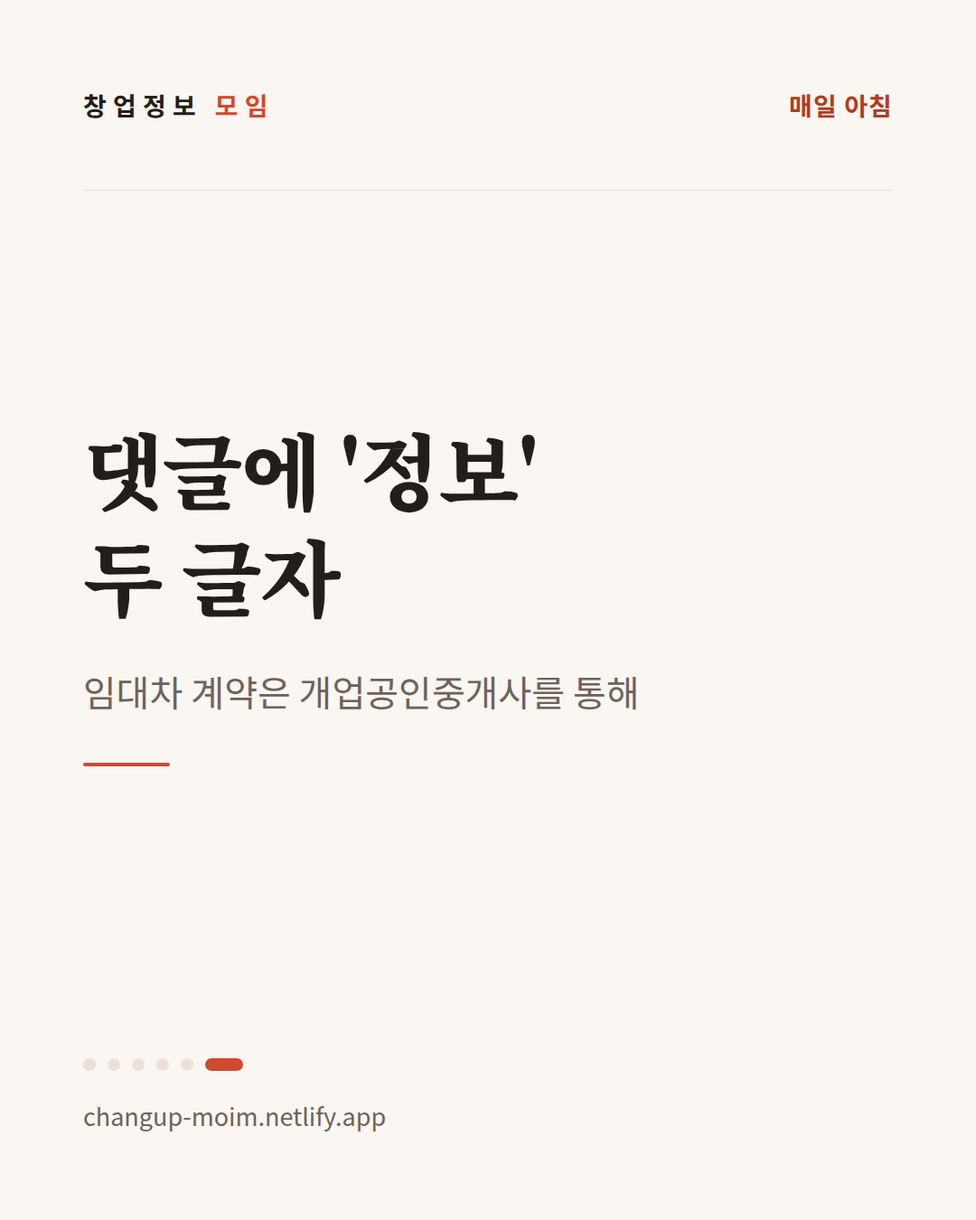
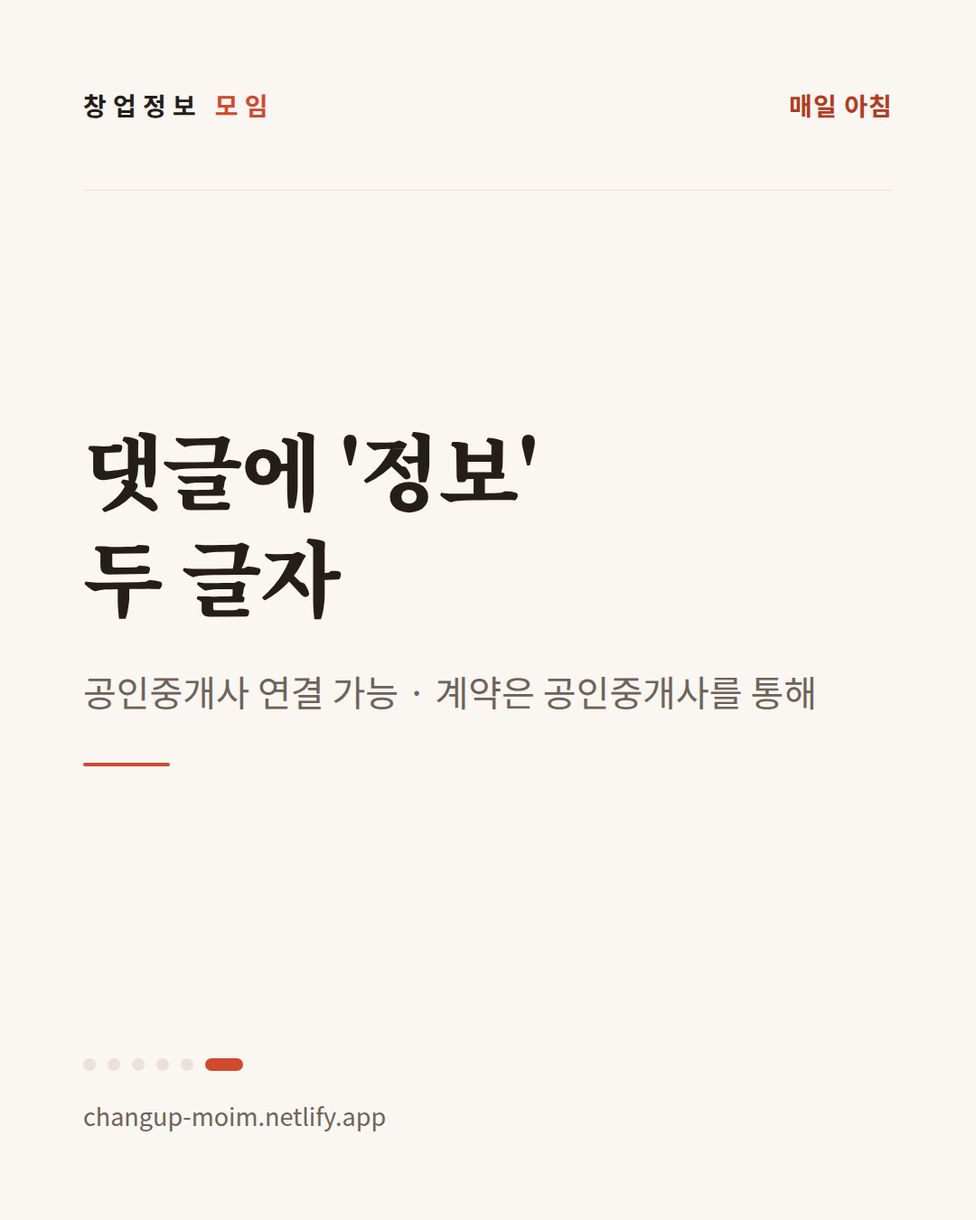
fix(changup-site): '개업공인중개사' → '공인중개사' 전면 교체 + 연결 가능 문구
- 사이트 전체(홈·FAQ·약관·개인정보·푸터·기사)·자동 기사 생성기·릴스 README 용어 통일
- 신뢰 배지 '공인중개사 협업' → '공인중개사 연결 가능'
- 4단계·왜무료 섹션에 "연결까지 도와드려요" 반영
- 무인매장 편 CTA 카드(muin_06) 재렌더 + 유니 음성 6번 재생성(연결 문구 포함)
- manifest 갱신 → 릴스 자동 재합성

Changed region(s): [[0.0917, 0.5289, 0.8556, 0.5911]]

diff --git a/apps/changup-site/app.html b/apps/changup-site/app.html
@@ -314,8 +314,8 @@ var ARTICLES=[
    ['장점: 인건비·운영시간의 부담이 줄어든다','무인매장의 가장 큰 장점은 <b>상주 인력이 필요 없다</b>는 점이다. 야간·심야까지 영업시간을 늘려도 인건비가 그대로이고, 본업과 병행하는 부업형 창업도 가능하다. 키오스크·무인결제 장비가 표준화되면서 초기 진입 장벽도 과거보다 낮아졌다. 다만 이는 \'관리가 필요 없다\'는 뜻이 아니라 <b>관리 방식이 달라진다</b>는 의미에 가깝다.'],
    ['숨은 비용: 임차료·기기·보안·손실은 그대로 남는다','인건비가 줄어도 <b>임차료·관리비·전기료</b>는 매달 나간다. 여기에 키오스크·냉동냉장 설비의 <b>렌털료 또는 감가</b>, CCTV·보안 비용, 무인 특성상 발생하는 <b>도난·파손 손실</b>과 정기 방문 청소·보충 시간까지 계산해야 한다. 이런 항목을 빼고 \'월 순수익\'을 말하는 홍보는 걸러서 볼 필요가 있다. 구체 비용은 업체·지역별로 달라 기관·계약서 확인이 필요하다.'],
    ['수익 구조: 객단가가 낮아 입지 의존도가 크다','무인 업종은 대체로 <b>객단가가 낮고 마진이 얇아</b>, 매출이 통행량과 배후세대에 크게 좌우된다. 계약 전에 <b>소상공인 상권정보시스템</b>으로 유동인구·경쟁점 밀도를 확인하고, 지방행정 인허가데이터로 주변 동일 업종의 <b>개·폐업 이력</b>을 살펴보면 자리의 위험도를 가늠할 수 있다. 같은 업종이 짧은 주기로 열고 닫힌 자리는 특히 주의한다.'],
-   ['인수라면: 장비 소유권과 계약 승계를 문서로 확인한다','운영 중인 무인매장을 인수할 때는 <b>키오스크·설비가 소유인지 렌털인지</b>, 렌털이면 잔여 약정과 위약금 승계 여부를 문서로 확인해야 한다. 프랜차이즈형이라면 정보공개서로 본사 조건을 검토하고, 임대차 계약은 <b>개업공인중개사를 통해</b> 진행한다. 매출 자료는 포스·정산 내역 원본으로 검증하는 것이 안전하다.']],
-  summary:['무인매장도 임차료·렌털·보안·손실 등 고정비가 계속 발생한다','객단가가 낮아 입지 의존도가 크다 — 상권 공공데이터로 먼저 검증한다','인수 시 장비 소유권·렌털 약정 승계를 반드시 문서로 확인한다','임대차 계약은 개업공인중개사를 통해 진행한다'],
+   ['인수라면: 장비 소유권과 계약 승계를 문서로 확인한다','운영 중인 무인매장을 인수할 때는 <b>키오스크·설비가 소유인지 렌털인지</b>, 렌털이면 잔여 약정과 위약금 승계 여부를 문서로 확인해야 한다. 프랜차이즈형이라면 정보공개서로 본사 조건을 검토하고, 임대차 계약은 <b>공인중개사를 통해</b> 진행한다. 매출 자료는 포스·정산 내역 원본으로 검증하는 것이 안전하다.']],
+  summary:['무인매장도 임차료·렌털·보안·손실 등 고정비가 계속 발생한다','객단가가 낮아 입지 의존도가 크다 — 상권 공공데이터로 먼저 검증한다','인수 시 장비 소유권·렌털 약정 승계를 반드시 문서로 확인한다','임대차 계약은 공인중개사를 통해 진행한다'],
   src:'근거: 소상공인 상권정보시스템, 지방행정 인허가데이터, 공정거래위원회 가맹사업 정보공개서 안내 등 공공자료. 개별 비용·수익은 업체·지역·계약 조건에 따라 다르며 특정 수익을 보장하지 않는다.'},
 
  {slug:'yangdo-segeum',cat:'권리금',date:'2026.07.20',
@@ -425,7 +425,7 @@ var ARTICLES=[
    ['권리금 회수기회 보호','임대차 종료 6개월 전부터 종료 시까지, 임대인이 정당한 사유 없이 신규 임차인과의 계약을 방해하면 <b>권리금 회수 방해</b>로 손해배상 책임을 질 수 있다. 이 조항의 존재를 알고 있어야 나중에 권리금을 지킬 수 있다.'],
    ['확정일자·전대 가능 여부','보증금 보호를 위해 <b>사업자등록과 확정일자</b>를 갖추고, 향후 양도·전대(재임대) 가능 여부를 계약서에 확인해 둔다. 나중에 매장을 넘길 때 임대인 동의 조건이 발목을 잡는 경우가 흔하다.']],
   summary:['환산보증금이 지역 기준 이하인지 확인해 보호 범위를 파악한다.','계약갱신요구권(최대 10년)과 잔여 기간으로 안정 영업 기간을 계산한다.','제소전화해·원상복구 범위 등 독소조항 문구를 명확히 한다.','권리금 회수기회 보호·확정일자·전대 가능 여부를 미리 챙긴다.'],
-  src:'근거: 상가건물 임대차보호법 및 국토교통부·법무부 상가임대차 표준계약서 안내. 개별 계약은 지역·조건에 따라 다르며, 실제 계약은 개업공인중개사·전문가 확인이 필요하다.'}
+  src:'근거: 상가건물 임대차보호법 및 국토교통부·법무부 상가임대차 표준계약서 안내. 개별 계약은 지역·조건에 따라 다르며, 실제 계약은 공인중개사·전문가 확인이 필요하다.'}
 ];
 
 // 기사별 공식 출처 링크 (공공기관)
@@ -473,7 +473,7 @@ function viewHome(){
   '<div class="metrics"><div class="metric"><div class="fig">5</div><div class="cap">공공데이터<br>기반 분석</div></div>'+
     '<div class="metric"><div class="fig">0</div><div class="cap">상담·매칭<br>비용 (원)</div></div>'+
     '<div class="metric"><div class="fig">1:1</div><div class="cap">전담 컨설턴트<br>동행</div></div></div>'+
-  '<div class="badges"><span>공공데이터 검증</span><span>개업공인중개사 협업</span><span>사업자 729-33-00827</span><span>개인정보 즉시 파기</span></div>'+
+  '<div class="badges"><span>공공데이터 검증</span><span>공인중개사 연결 가능</span><span>사업자 729-33-00827</span><span>개인정보 즉시 파기</span></div>'+
   '<section><span class="pill"><span class="dot"></span>30초 무료 진단</span>'+
     '<h2 style="margin-top:.7rem">내 가게 <span class="g">권리금 적정가</span>는 얼마?</h2>'+
     '<p class="lead" style="text-align:left;max-width:none;margin:.5rem 0 0">지금 넘기면 얼마나 회수할 수 있을까요? 업종·월 순이익·상권만 넣으면 참고 구간을 바로 알려드려요.</p>'+
@@ -493,14 +493,14 @@ function viewHome(){
     '<div class="step"><div class="sn">1</div><b>30초 설문</b><span>희망 조건만 남기면 끝. 가입·비용 없음.</span></div>'+
     '<div class="step"><div class="sn">2</div><b>조건 매칭</b><span>공공데이터로 검증된 매물만 골라 대조.</span></div>'+
     '<div class="step"><div class="sn">3</div><b>1:1 안내</b><span>맞는 매물이 생기면 가장 먼저 연락.</span></div>'+
-    '<div class="step"><div class="sn">4</div><b>안전 계약</b><span>실제 계약은 개업공인중개사를 통해.</span></div>'+
+    '<div class="step"><div class="sn">4</div><b>안전 계약</b><span>계약은 공인중개사를 통해 — 연결까지 도와드려요.</span></div>'+
     '</div></section>'+
   '<section><div class="sh"><h2>오늘의 <span class="g">창업 인사이트</span></h2><a class="more-lnk" data-go="info">전체 보기 →</a></div>'+
     '<div class="feed">'+latest+'</div>'+
     '<p style="text-align:center;color:var(--sub);font-size:.85rem;margin:1.1rem 0 0">계약 전에 알았다면 달랐을 이야기, <b style="color:var(--ink)">매일</b> 올라옵니다.</p></section>'+
   '<section><h2>왜 <span class="g">무료</span>인가요?</h2><div class="why">'+
     wrow('수수료는 계약 성사 시 매도인 측에서 발생합니다.','매수 고객님께는 비용이 없습니다.')+
-    wrow('계약은 개업공인중개사를 통해 진행합니다.','저희는 조건에 맞는 연결과 자문을 담당해요.')+
+    wrow('계약은 공인중개사를 통해 진행합니다.','필요하시면 공인중개사 연결까지 도와드려요.')+
     wrow('연락처는 매물 안내 목적에만 씁니다.','제3자 제공 없음, 강매 없음.')+'</div></section>'+
   '<section><h2>이번 주 <span class="g">연결 가능한</span> 매물</h2><div class="ledger">'+
     lr('마포권','카페 · 보증금 3,000 · 월 200')+lr('강남권','외식업 · 권리금 협의 가능')+lr('성동권','풀오토 · 위탁 운영 가능')+
@@ -520,7 +520,7 @@ function faq(q,a){return '<details><summary>'+q+'<span class="pm">+</span></summ
 function footer(){return '<footer>'+
   '<div class="flinks"><a data-go="terms">이용약관</a><a data-go="privacy">개인정보처리방침</a><a data-go="ads">광고등록안내</a></div>'+
   '<b>호스트헬퍼</b> · 대표 김태욱 · 사업자등록번호 729-33-00827<br>서울특별시 동대문구 전농로37길 68-4, 1층 101호(전농동)<br>문의: 김태욱 컨설턴트 010-9433-4557 · hosthelper01@gmail.com<br><br>'+
-  '본 정보는 공공데이터에 근거하며 특정 수익·승인을 보장하지 않습니다. 호스트헬퍼는 사업체(권리금) 양도·양수를 주 업무로 하며, 게재 매물은 「공인중개사법」상 중개대상물이 아닙니다. 임대차·양수도 계약은 개업공인중개사를 통해 진행됩니다.</footer>';}
+  '본 정보는 공공데이터에 근거하며 특정 수익·승인을 보장하지 않습니다. 호스트헬퍼는 사업체(권리금) 양도·양수를 주 업무로 하며, 게재 매물은 「공인중개사법」상 중개대상물이 아닙니다. 임대차·양수도 계약은 공인중개사를 통해 진행됩니다.</footer>';}
 
 var curCat='전체';
 function viewInfo(){
@@ -588,7 +588,7 @@ function viewTerms(){return '<section class="legal">'+
  '<h3>제6조 (이용자의 의무)</h3><p>이용자는 신청·문의 시 허위 정보를 기재하여서는 안 되며, 서비스의 정상적 운영을 방해하는 행위, 타인의 정보를 도용하는 행위, 회사의 지식재산권을 침해하는 행위를 하여서는 안 됩니다.</p>'+
  '<h3>제7조 (매물 정보 및 면책)</h3>'+
  '<div class="box">호스트헬퍼는 사업체(권리금) 양도·양수를 주 업무로 하는 회사로, 일반 부동산에서 취급하는 중개대상물을 다루지 않습니다. 따라서 서비스에 안내되는 사업체(매물)는 「공인중개사법」상 중개대상물이 아닙니다.</div>'+
- '<p>① 게재·안내되는 매물 정보는 실제 존재하는 사업체를 기준으로 작성됩니다. 다만 양도인의 보안 유지 요청(건물주·직원 관계, 매출 저하 우려 등)에 따라 정확한 위치·임대차 조건·매출·지출 내역은 공개 화면에 그대로 기재되지 않을 수 있습니다.<br>② 정확한 위치·운영상태 확인 및 현장답사를 원하는 이용자에게는 상담·방문을 통해 세부 내역을 상세히 안내합니다.<br>③ 회사는 프랜차이즈·제휴업체 등이 제공한 정보의 정확성·안정성을 보장하지 않으며, 실제 임대차·양수도 계약은 개업공인중개사 등 전문가를 통해 진행됩니다.<br>④ 본 서비스의 창업 정보 콘텐츠는 공공데이터 등에 근거한 일반적 참고 자료로, 특정 수익·대출 승인·계약 성사를 보장하지 않습니다.</p>'+
+ '<p>① 게재·안내되는 매물 정보는 실제 존재하는 사업체를 기준으로 작성됩니다. 다만 양도인의 보안 유지 요청(건물주·직원 관계, 매출 저하 우려 등)에 따라 정확한 위치·임대차 조건·매출·지출 내역은 공개 화면에 그대로 기재되지 않을 수 있습니다.<br>② 정확한 위치·운영상태 확인 및 현장답사를 원하는 이용자에게는 상담·방문을 통해 세부 내역을 상세히 안내합니다.<br>③ 회사는 프랜차이즈·제휴업체 등이 제공한 정보의 정확성·안정성을 보장하지 않으며, 실제 임대차·양수도 계약은 공인중개사 등 전문가를 통해 진행됩니다.<br>④ 본 서비스의 창업 정보 콘텐츠는 공공데이터 등에 근거한 일반적 참고 자료로, 특정 수익·대출 승인·계약 성사를 보장하지 않습니다.</p>'+
  '<h3>제8조 (수수료)</h3><p>매수(창업) 희망 이용자에 대한 상담·매칭에는 별도의 비용이 청구되지 않습니다. 중개(양도양수) 수수료는 계약이 성사된 경우 매도인(양도인) 측과의 약정에 따릅니다.</p>'+
  '<h3>제9조 (지식재산권)</h3><p>서비스 및 회사가 작성한 콘텐츠에 대한 저작권 등 지식재산권은 회사에 귀속하며, 이용자는 회사의 사전 승낙 없이 이를 영리 목적으로 복제·배포·전송할 수 없습니다.</p>'+
  '<h3>제10조 (준거법 및 관할)</h3><p>본 약관은 대한민국 법을 준거법으로 하며, 회사와 이용자 간 분쟁에 관한 소송은 민사소송법상 관할법원에 제기합니다.</p>'+
@@ -603,7 +603,7 @@ function viewPrivacy(){return '<section class="legal">'+
  '<tr><td>매물 상담 설문</td><td>성함, 휴대폰번호, 연락 방법, 희망 운영방식·업종·지역, 희망 예산(보증금·월세·권리금), 오프미팅 희망 일정, 문의 내용</td><td>조건에 맞는 매물 안내·매칭 상담, 방문(오프미팅) 일정 조율, 문의 응대</td><td>상담 종료 또는 동의 철회 시까지(관계 법령상 보존 필요 시 3년)</td></tr>'+
  '<tr><td>자동 수집</td><td>접속 IP, 서비스 이용 시각, 브라우저 정보(User Agent)</td><td>서비스 이용 통계·분석, 부정 이용 방지</td><td>수집일로부터 2년</td></tr></table></div>'+
  '<h3>2. 개인정보의 보유 및 파기</h3><p>보유기간의 경과, 처리목적 달성 등으로 개인정보가 불필요하게 된 때에는 지체 없이 파기합니다. 전자적 파일은 복원이 불가능한 방법으로 삭제하고, 출력물은 파쇄 또는 소각합니다. 관계 법령에 따라 보존이 필요한 경우 해당 기간 동안 별도 보관합니다.</p>'+
- '<h3>3. 개인정보의 제3자 제공</h3><p>회사는 정보주체의 동의 없이 개인정보를 외부에 제공하지 않습니다. 다만 매물 양수도 계약 진행을 위해 개업공인중개사 등에게 제공이 필요한 경우 사전에 별도의 동의를 받습니다.</p>'+
+ '<h3>3. 개인정보의 제3자 제공</h3><p>회사는 정보주체의 동의 없이 개인정보를 외부에 제공하지 않습니다. 다만 매물 양수도 계약 진행을 위해 공인중개사 등에게 제공이 필요한 경우 사전에 별도의 동의를 받습니다.</p>'+
  '<h3>4. 개인정보 처리의 위탁</h3><p>회사는 안정적인 서비스 운영(데이터 보관·알림 발송 등)을 위해 국내외 클라우드 인프라를 이용할 수 있으며, 이 경우 관계 법령에 따라 개인정보가 안전하게 관리되도록 필요한 조치를 합니다.</p>'+
  '<h3>5. 정보주체의 권리와 행사 방법</h3><p>정보주체는 언제든지 개인정보의 열람·정정·삭제·처리정지를 요구할 수 있으며, 서면·전자우편 등으로 요청하면 회사는 지체 없이 조치합니다. 요청은 아래 문의처로 하실 수 있습니다.</p>'+
  '<h3>6. 개인정보의 안전성 확보 조치</h3><p>회사는 관리적 조치(내부관리계획 수립·시행, 담당자 교육), 기술적 조치(접근권한 관리, 접근통제, 개인정보 암호화, 보안프로그램 운영), 물리적 조치(자료보관 장소 접근통제)를 통해 개인정보를 안전하게 관리합니다.</p>'+
@@ -616,12 +616,12 @@ function viewPrivacy(){return '<section class="legal">'+
 
 function viewAds(){return '<section class="legal">'+
  '<h1>광고등록안내</h1><p class="upd">가게(사업체)를 양도하려는 사장님을 위한 안내입니다.</p>'+
- '<div class="box">호스트헬퍼는 사업체(권리금) 양도·양수를 주 업무로 하는 회사입니다. 게재되는 매물은 「공인중개사법」상 중개대상물이 아니며, 실제 계약은 개업공인중개사 등을 통해 진행됩니다.</div>'+
+ '<div class="box">호스트헬퍼는 사업체(권리금) 양도·양수를 주 업무로 하는 회사입니다. 게재되는 매물은 「공인중개사법」상 중개대상물이 아니며, 실제 계약은 공인중개사 등을 통해 진행됩니다.</div>'+
  '<h3>진행 절차</h3>'+
  '<ul><li><b>1. 등록 문의</b> — 아래 연락처로 지역·업종·희망 조건을 알려주세요.</li>'+
  '<li><b>2. 상담·검토</b> — 담당 컨설턴트가 매물 정보와 희망 조건을 확인합니다.</li>'+
  '<li><b>3. 매칭·안내</b> — 조건에 맞는 예비창업자에게 보안이 유지된 형태로 안내하고, 관심 매수자와 방문(오프미팅) 일정을 조율합니다.</li>'+
- '<li><b>4. 계약</b> — 양수도 계약은 개업공인중개사 등 전문가를 통해 안전하게 진행됩니다.</li></ul>'+
+ '<li><b>4. 계약</b> — 양수도 계약은 공인중개사 등 전문가를 통해 안전하게 진행됩니다.</li></ul>'+
  '<h3>등록 시 준비하면 좋은 정보</h3>'+
  '<ul><li>업종 및 운영방식(직영·풀오토·위탁·본사)</li><li>위치(지역/상권), 점포 규모</li><li>보증금 · 월세 · 권리금 희망가</li><li>양도 사유, 현재 운영 상태(매출·비용 등)</li></ul>'+
  '<h3>보안 안내</h3>'+

diff --git a/apps/changup-site/index.html b/apps/changup-site/index.html
@@ -314,8 +314,8 @@ var ARTICLES=[
    ['장점: 인건비·운영시간의 부담이 줄어든다','무인매장의 가장 큰 장점은 <b>상주 인력이 필요 없다</b>는 점이다. 야간·심야까지 영업시간을 늘려도 인건비가 그대로이고, 본업과 병행하는 부업형 창업도 가능하다. 키오스크·무인결제 장비가 표준화되면서 초기 진입 장벽도 과거보다 낮아졌다. 다만 이는 \'관리가 필요 없다\'는 뜻이 아니라 <b>관리 방식이 달라진다</b>는 의미에 가깝다.'],
    ['숨은 비용: 임차료·기기·보안·손실은 그대로 남는다','인건비가 줄어도 <b>임차료·관리비·전기료</b>는 매달 나간다. 여기에 키오스크·냉동냉장 설비의 <b>렌털료 또는 감가</b>, CCTV·보안 비용, 무인 특성상 발생하는 <b>도난·파손 손실</b>과 정기 방문 청소·보충 시간까지 계산해야 한다. 이런 항목을 빼고 \'월 순수익\'을 말하는 홍보는 걸러서 볼 필요가 있다. 구체 비용은 업체·지역별로 달라 기관·계약서 확인이 필요하다.'],
    ['수익 구조: 객단가가 낮아 입지 의존도가 크다','무인 업종은 대체로 <b>객단가가 낮고 마진이 얇아</b>, 매출이 통행량과 배후세대에 크게 좌우된다. 계약 전에 <b>소상공인 상권정보시스템</b>으로 유동인구·경쟁점 밀도를 확인하고, 지방행정 인허가데이터로 주변 동일 업종의 <b>개·폐업 이력</b>을 살펴보면 자리의 위험도를 가늠할 수 있다. 같은 업종이 짧은 주기로 열고 닫힌 자리는 특히 주의한다.'],
-   ['인수라면: 장비 소유권과 계약 승계를 문서로 확인한다','운영 중인 무인매장을 인수할 때는 <b>키오스크·설비가 소유인지 렌털인지</b>, 렌털이면 잔여 약정과 위약금 승계 여부를 문서로 확인해야 한다. 프랜차이즈형이라면 정보공개서로 본사 조건을 검토하고, 임대차 계약은 <b>개업공인중개사를 통해</b> 진행한다. 매출 자료는 포스·정산 내역 원본으로 검증하는 것이 안전하다.']],
-  summary:['무인매장도 임차료·렌털·보안·손실 등 고정비가 계속 발생한다','객단가가 낮아 입지 의존도가 크다 — 상권 공공데이터로 먼저 검증한다','인수 시 장비 소유권·렌털 약정 승계를 반드시 문서로 확인한다','임대차 계약은 개업공인중개사를 통해 진행한다'],
+   ['인수라면: 장비 소유권과 계약 승계를 문서로 확인한다','운영 중인 무인매장을 인수할 때는 <b>키오스크·설비가 소유인지 렌털인지</b>, 렌털이면 잔여 약정과 위약금 승계 여부를 문서로 확인해야 한다. 프랜차이즈형이라면 정보공개서로 본사 조건을 검토하고, 임대차 계약은 <b>공인중개사를 통해</b> 진행한다. 매출 자료는 포스·정산 내역 원본으로 검증하는 것이 안전하다.']],
+  summary:['무인매장도 임차료·렌털·보안·손실 등 고정비가 계속 발생한다','객단가가 낮아 입지 의존도가 크다 — 상권 공공데이터로 먼저 검증한다','인수 시 장비 소유권·렌털 약정 승계를 반드시 문서로 확인한다','임대차 계약은 공인중개사를 통해 진행한다'],
   src:'근거: 소상공인 상권정보시스템, 지방행정 인허가데이터, 공정거래위원회 가맹사업 정보공개서 안내 등 공공자료. 개별 비용·수익은 업체·지역·계약 조건에 따라 다르며 특정 수익을 보장하지 않는다.'},
 
  {slug:'yangdo-segeum',cat:'권리금',date:'2026.07.20',
@@ -425,7 +425,7 @@ var ARTICLES=[
    ['권리금 회수기회 보호','임대차 종료 6개월 전부터 종료 시까지, 임대인이 정당한 사유 없이 신규 임차인과의 계약을 방해하면 <b>권리금 회수 방해</b>로 손해배상 책임을 질 수 있다. 이 조항의 존재를 알고 있어야 나중에 권리금을 지킬 수 있다.'],
    ['확정일자·전대 가능 여부','보증금 보호를 위해 <b>사업자등록과 확정일자</b>를 갖추고, 향후 양도·전대(재임대) 가능 여부를 계약서에 확인해 둔다. 나중에 매장을 넘길 때 임대인 동의 조건이 발목을 잡는 경우가 흔하다.']],
   summary:['환산보증금이 지역 기준 이하인지 확인해 보호 범위를 파악한다.','계약갱신요구권(최대 10년)과 잔여 기간으로 안정 영업 기간을 계산한다.','제소전화해·원상복구 범위 등 독소조항 문구를 명확히 한다.','권리금 회수기회 보호·확정일자·전대 가능 여부를 미리 챙긴다.'],
-  src:'근거: 상가건물 임대차보호법 및 국토교통부·법무부 상가임대차 표준계약서 안내. 개별 계약은 지역·조건에 따라 다르며, 실제 계약은 개업공인중개사·전문가 확인이 필요하다.'}
+  src:'근거: 상가건물 임대차보호법 및 국토교통부·법무부 상가임대차 표준계약서 안내. 개별 계약은 지역·조건에 따라 다르며, 실제 계약은 공인중개사·전문가 확인이 필요하다.'}
 ];
 
 // 기사별 공식 출처 링크 (공공기관)
@@ -473,7 +473,7 @@ function viewHome(){
   '<div class="metrics"><div class="metric"><div class="fig">5</div><div class="cap">공공데이터<br>기반 분석</div></div>'+
     '<div class="metric"><div class="fig">0</div><div class="cap">상담·매칭<br>비용 (원)</div></div>'+
     '<div class="metric"><div class="fig">1:1</div><div class="cap">전담 컨설턴트<br>동행</div></div></div>'+
-  '<div class="badges"><span>공공데이터 검증</span><span>개업공인중개사 협업</span><span>사업자 729-33-00827</span><span>개인정보 즉시 파기</span></div>'+
+  '<div class="badges"><span>공공데이터 검증</span><span>공인중개사 연결 가능</span><span>사업자 729-33-00827</span><span>개인정보 즉시 파기</span></div>'+
   '<section><span class="pill"><span class="dot"></span>30초 무료 진단</span>'+
     '<h2 style="margin-top:.7rem">내 가게 <span class="g">권리금 적정가</span>는 얼마?</h2>'+
     '<p class="lead" style="text-align:left;max-width:none;margin:.5rem 0 0">지금 넘기면 얼마나 회수할 수 있을까요? 업종·월 순이익·상권만 넣으면 참고 구간을 바로 알려드려요.</p>'+
@@ -493,14 +493,14 @@ function viewHome(){
     '<div class="step"><div class="sn">1</div><b>30초 설문</b><span>희망 조건만 남기면 끝. 가입·비용 없음.</span></div>'+
     '<div class="step"><div class="sn">2</div><b>조건 매칭</b><span>공공데이터로 검증된 매물만 골라 대조.</span></div>'+
     '<div class="step"><div class="sn">3</div><b>1:1 안내</b><span>맞는 매물이 생기면 가장 먼저 연락.</span></div>'+
-    '<div class="step"><div class="sn">4</div><b>안전 계약</b><span>실제 계약은 개업공인중개사를 통해.</span></div>'+
+    '<div class="step"><div class="sn">4</div><b>안전 계약</b><span>계약은 공인중개사를 통해 — 연결까지 도와드려요.</span></div>'+
     '</div></section>'+
   '<section><div class="sh"><h2>오늘의 <span class="g">창업 인사이트</span></h2><a class="more-lnk" data-go="info">전체 보기 →</a></div>'+
     '<div class="feed">'+latest+'</div>'+
     '<p style="text-align:center;color:var(--sub);font-size:.85rem;margin:1.1rem 0 0">계약 전에 알았다면 달랐을 이야기, <b style="color:var(--ink)">매일</b> 올라옵니다.</p></section>'+
   '<section><h2>왜 <span class="g">무료</span>인가요?</h2><div class="why">'+
     wrow('수수료는 계약 성사 시 매도인 측에서 발생합니다.','매수 고객님께는 비용이 없습니다.')+
-    wrow('계약은 개업공인중개사를 통해 진행합니다.','저희는 조건에 맞는 연결과 자문을 담당해요.')+
+    wrow('계약은 공인중개사를 통해 진행합니다.','필요하시면 공인중개사 연결까지 도와드려요.')+
     wrow('연락처는 매물 안내 목적에만 씁니다.','제3자 제공 없음, 강매 없음.')+'</div></section>'+
   '<section><h2>이번 주 <span class="g">연결 가능한</span> 매물</h2><div class="ledger">'+
     lr('마포권','카페 · 보증금 3,000 · 월 200')+lr('강남권','외식업 · 권리금 협의 가능')+lr('성동권','풀오토 · 위탁 운영 가능')+
@@ -520,7 +520,7 @@ function faq(q,a){return '<details><summary>'+q+'<span class="pm">+</span></summ
 function footer(){return '<footer>'+
   '<div class="flinks"><a data-go="terms">이용약관</a><a data-go="privacy">개인정보처리방침</a><a data-go="ads">광고등록안내</a></div>'+
   '<b>호스트헬퍼</b> · 대표 김태욱 · 사업자등록번호 729-33-00827<br>서울특별시 동대문구 전농로37길 68-4, 1층 101호(전농동)<br>문의: 김태욱 컨설턴트 010-9433-4557 · hosthelper01@gmail.com<br><br>'+
-  '본 정보는 공공데이터에 근거하며 특정 수익·승인을 보장하지 않습니다. 호스트헬퍼는 사업체(권리금) 양도·양수를 주 업무로 하며, 게재 매물은 「공인중개사법」상 중개대상물이 아닙니다. 임대차·양수도 계약은 개업공인중개사를 통해 진행됩니다.</footer>';}
+  '본 정보는 공공데이터에 근거하며 특정 수익·승인을 보장하지 않습니다. 호스트헬퍼는 사업체(권리금) 양도·양수를 주 업무로 하며, 게재 매물은 「공인중개사법」상 중개대상물이 아닙니다. 임대차·양수도 계약은 공인중개사를 통해 진행됩니다.</footer>';}
 
 var curCat='전체';
 function viewInfo(){
@@ -588,7 +588,7 @@ function viewTerms(){return '<section class="legal">'+
  '<h3>제6조 (이용자의 의무)</h3><p>이용자는 신청·문의 시 허위 정보를 기재하여서는 안 되며, 서비스의 정상적 운영을 방해하는 행위, 타인의 정보를 도용하는 행위, 회사의 지식재산권을 침해하는 행위를 하여서는 안 됩니다.</p>'+
  '<h3>제7조 (매물 정보 및 면책)</h3>'+
  '<div class="box">호스트헬퍼는 사업체(권리금) 양도·양수를 주 업무로 하는 회사로, 일반 부동산에서 취급하는 중개대상물을 다루지 않습니다. 따라서 서비스에 안내되는 사업체(매물)는 「공인중개사법」상 중개대상물이 아닙니다.</div>'+
- '<p>① 게재·안내되는 매물 정보는 실제 존재하는 사업체를 기준으로 작성됩니다. 다만 양도인의 보안 유지 요청(건물주·직원 관계, 매출 저하 우려 등)에 따라 정확한 위치·임대차 조건·매출·지출 내역은 공개 화면에 그대로 기재되지 않을 수 있습니다.<br>② 정확한 위치·운영상태 확인 및 현장답사를 원하는 이용자에게는 상담·방문을 통해 세부 내역을 상세히 안내합니다.<br>③ 회사는 프랜차이즈·제휴업체 등이 제공한 정보의 정확성·안정성을 보장하지 않으며, 실제 임대차·양수도 계약은 개업공인중개사 등 전문가를 통해 진행됩니다.<br>④ 본 서비스의 창업 정보 콘텐츠는 공공데이터 등에 근거한 일반적 참고 자료로, 특정 수익·대출 승인·계약 성사를 보장하지 않습니다.</p>'+
+ '<p>① 게재·안내되는 매물 정보는 실제 존재하는 사업체를 기준으로 작성됩니다. 다만 양도인의 보안 유지 요청(건물주·직원 관계, 매출 저하 우려 등)에 따라 정확한 위치·임대차 조건·매출·지출 내역은 공개 화면에 그대로 기재되지 않을 수 있습니다.<br>② 정확한 위치·운영상태 확인 및 현장답사를 원하는 이용자에게는 상담·방문을 통해 세부 내역을 상세히 안내합니다.<br>③ 회사는 프랜차이즈·제휴업체 등이 제공한 정보의 정확성·안정성을 보장하지 않으며, 실제 임대차·양수도 계약은 공인중개사 등 전문가를 통해 진행됩니다.<br>④ 본 서비스의 창업 정보 콘텐츠는 공공데이터 등에 근거한 일반적 참고 자료로, 특정 수익·대출 승인·계약 성사를 보장하지 않습니다.</p>'+
  '<h3>제8조 (수수료)</h3><p>매수(창업) 희망 이용자에 대한 상담·매칭에는 별도의 비용이 청구되지 않습니다. 중개(양도양수) 수수료는 계약이 성사된 경우 매도인(양도인) 측과의 약정에 따릅니다.</p>'+
  '<h3>제9조 (지식재산권)</h3><p>서비스 및 회사가 작성한 콘텐츠에 대한 저작권 등 지식재산권은 회사에 귀속하며, 이용자는 회사의 사전 승낙 없이 이를 영리 목적으로 복제·배포·전송할 수 없습니다.</p>'+
  '<h3>제10조 (준거법 및 관할)</h3><p>본 약관은 대한민국 법을 준거법으로 하며, 회사와 이용자 간 분쟁에 관한 소송은 민사소송법상 관할법원에 제기합니다.</p>'+
@@ -603,7 +603,7 @@ function viewPrivacy(){return '<section class="legal">'+
  '<tr><td>매물 상담 설문</td><td>성함, 휴대폰번호, 연락 방법, 희망 운영방식·업종·지역, 희망 예산(보증금·월세·권리금), 오프미팅 희망 일정, 문의 내용</td><td>조건에 맞는 매물 안내·매칭 상담, 방문(오프미팅) 일정 조율, 문의 응대</td><td>상담 종료 또는 동의 철회 시까지(관계 법령상 보존 필요 시 3년)</td></tr>'+
  '<tr><td>자동 수집</td><td>접속 IP, 서비스 이용 시각, 브라우저 정보(User Agent)</td><td>서비스 이용 통계·분석, 부정 이용 방지</td><td>수집일로부터 2년</td></tr></table></div>'+
  '<h3>2. 개인정보의 보유 및 파기</h3><p>보유기간의 경과, 처리목적 달성 등으로 개인정보가 불필요하게 된 때에는 지체 없이 파기합니다. 전자적 파일은 복원이 불가능한 방법으로 삭제하고, 출력물은 파쇄 또는 소각합니다. 관계 법령에 따라 보존이 필요한 경우 해당 기간 동안 별도 보관합니다.</p>'+
- '<h3>3. 개인정보의 제3자 제공</h3><p>회사는 정보주체의 동의 없이 개인정보를 외부에 제공하지 않습니다. 다만 매물 양수도 계약 진행을 위해 개업공인중개사 등에게 제공이 필요한 경우 사전에 별도의 동의를 받습니다.</p>'+
+ '<h3>3. 개인정보의 제3자 제공</h3><p>회사는 정보주체의 동의 없이 개인정보를 외부에 제공하지 않습니다. 다만 매물 양수도 계약 진행을 위해 공인중개사 등에게 제공이 필요한 경우 사전에 별도의 동의를 받습니다.</p>'+
  '<h3>4. 개인정보 처리의 위탁</h3><p>회사는 안정적인 서비스 운영(데이터 보관·알림 발송 등)을 위해 국내외 클라우드 인프라를 이용할 수 있으며, 이 경우 관계 법령에 따라 개인정보가 안전하게 관리되도록 필요한 조치를 합니다.</p>'+
  '<h3>5. 정보주체의 권리와 행사 방법</h3><p>정보주체는 언제든지 개인정보의 열람·정정·삭제·처리정지를 요구할 수 있으며, 서면·전자우편 등으로 요청하면 회사는 지체 없이 조치합니다. 요청은 아래 문의처로 하실 수 있습니다.</p>'+
  '<h3>6. 개인정보의 안전성 확보 조치</h3><p>회사는 관리적 조치(내부관리계획 수립·시행, 담당자 교육), 기술적 조치(접근권한 관리, 접근통제, 개인정보 암호화, 보안프로그램 운영), 물리적 조치(자료보관 장소 접근통제)를 통해 개인정보를 안전하게 관리합니다.</p>'+
@@ -616,12 +616,12 @@ function viewPrivacy(){return '<section class="legal">'+
 
 function viewAds(){return '<section class="legal">'+
  '<h1>광고등록안내</h1><p class="upd">가게(사업체)를 양도하려는 사장님을 위한 안내입니다.</p>'+
- '<div class="box">호스트헬퍼는 사업체(권리금) 양도·양수를 주 업무로 하는 회사입니다. 게재되는 매물은 「공인중개사법」상 중개대상물이 아니며, 실제 계약은 개업공인중개사 등을 통해 진행됩니다.</div>'+
+ '<div class="box">호스트헬퍼는 사업체(권리금) 양도·양수를 주 업무로 하는 회사입니다. 게재되는 매물은 「공인중개사법」상 중개대상물이 아니며, 실제 계약은 공인중개사 등을 통해 진행됩니다.</div>'+
  '<h3>진행 절차</h3>'+
  '<ul><li><b>1. 등록 문의</b> — 아래 연락처로 지역·업종·희망 조건을 알려주세요.</li>'+
  '<li><b>2. 상담·검토</b> — 담당 컨설턴트가 매물 정보와 희망 조건을 확인합니다.</li>'+
  '<li><b>3. 매칭·안내</b> — 조건에 맞는 예비창업자에게 보안이 유지된 형태로 안내하고, 관심 매수자와 방문(오프미팅) 일정을 조율합니다.</li>'+
- '<li><b>4. 계약</b> — 양수도 계약은 개업공인중개사 등 전문가를 통해 안전하게 진행됩니다.</li></ul>'+
+ '<li><b>4. 계약</b> — 양수도 계약은 공인중개사 등 전문가를 통해 안전하게 진행됩니다.</li></ul>'+
  '<h3>등록 시 준비하면 좋은 정보</h3>'+
  '<ul><li>업종 및 운영방식(직영·풀오토·위탁·본사)</li><li>위치(지역/상권), 점포 규모</li><li>보증금 · 월세 · 권리금 희망가</li><li>양도 사유, 현재 운영 상태(매출·비용 등)</li></ul>'+
  '<h3>보안 안내</h3>'+

diff --git a/apps/changup-site/posts/2026-07-16-imdaecha.html b/apps/changup-site/posts/2026-07-16-imdaecha.html
@@ -80,7 +80,7 @@ a:focus-visible{outline:2px solid var(--brand);outline-offset:3px}
     <li>제소전화해·원상복구 범위 등 독소조항 문구를 명확히 한다.</li>
     <li>권리금 회수기회 보호·확정일자·전대 가능 여부를 미리 챙긴다.</li>
   </ul></div>
-  <div class="source"><b>출처 · 근거 자료</b><ul class="srclist"><li><a href="https://www.law.go.kr" target="_blank" rel="noopener nofollow noreferrer">국가법령정보센터 — 상가건물 임대차보호법 ↗</a></li><li><a href="https://www.molit.go.kr" target="_blank" rel="noopener nofollow noreferrer">국토교통부 ↗</a></li></ul><p class="srcnote">근거: 상가건물 임대차보호법 및 국토교통부·법무부 상가임대차 표준계약서 안내. 개별 계약은 지역·조건에 따라 다르며, 실제 계약은 개업공인중개사·전문가 확인이 필요하다.</p></div>
+  <div class="source"><b>출처 · 근거 자료</b><ul class="srclist"><li><a href="https://www.law.go.kr" target="_blank" rel="noopener nofollow noreferrer">국가법령정보센터 — 상가건물 임대차보호법 ↗</a></li><li><a href="https://www.molit.go.kr" target="_blank" rel="noopener nofollow noreferrer">국토교통부 ↗</a></li></ul><p class="srcnote">근거: 상가건물 임대차보호법 및 국토교통부·법무부 상가임대차 표준계약서 안내. 개별 계약은 지역·조건에 따라 다르며, 실제 계약은 공인중개사·전문가 확인이 필요하다.</p></div>
   <a class="btn" href="../s/">내 조건에 맞는 매물 추천받기 (30초 설문)</a><br>
   <a class="back" href="./">← 창업 정보 전체보기</a>
 </main>

diff --git a/apps/changup-site/posts/index.html b/apps/changup-site/posts/index.html
@@ -139,7 +139,7 @@ a:focus-visible,.fchip:focus-visible{outline:2px solid var(--brand);outline-offs
 
   <footer>
     창업이지 · 김태욱 컨설턴트 010-9433-4557 · 서울특별시 강남구 테헤란로 13길 12, 5층<br>
-    본 정보는 공공데이터에 근거하며 특정 수익·승인을 보장하지 않습니다. 임대차·양수도 계약은 개업공인중개사를 통해 진행됩니다.
+    본 정보는 공공데이터에 근거하며 특정 수익·승인을 보장하지 않습니다. 임대차·양수도 계약은 공인중개사를 통해 진행됩니다.
   </footer>
 </main>
 

diff --git a/apps/changup-site/reel/README.md b/apps/changup-site/reel/README.md
@@ -24,6 +24,6 @@
 3. 영업권리금 = 검증된 월 순이익 기준(6–12개월치)
 4. 시설권리금 = 감가된 값, 노후 설비는 철거비 주의
 5. 양수도 계약서는 문서로, 세금 미리 확인
-6. CTA — 무료 설문(매물 추천)·매물 등록, 실제 계약은 개업공인중개사
+6. CTA — 무료 설문(매물 추천)·매물 등록, 실제 계약은 공인중개사
 
-가드레일: 수익·성공 보장 없음, "중개" 아님(정보공유·연결·매칭), 실제 계약은 개업공인중개사.
+가드레일: 수익·성공 보장 없음, "중개" 아님(정보공유·연결·매칭), 실제 계약은 공인중개사.
